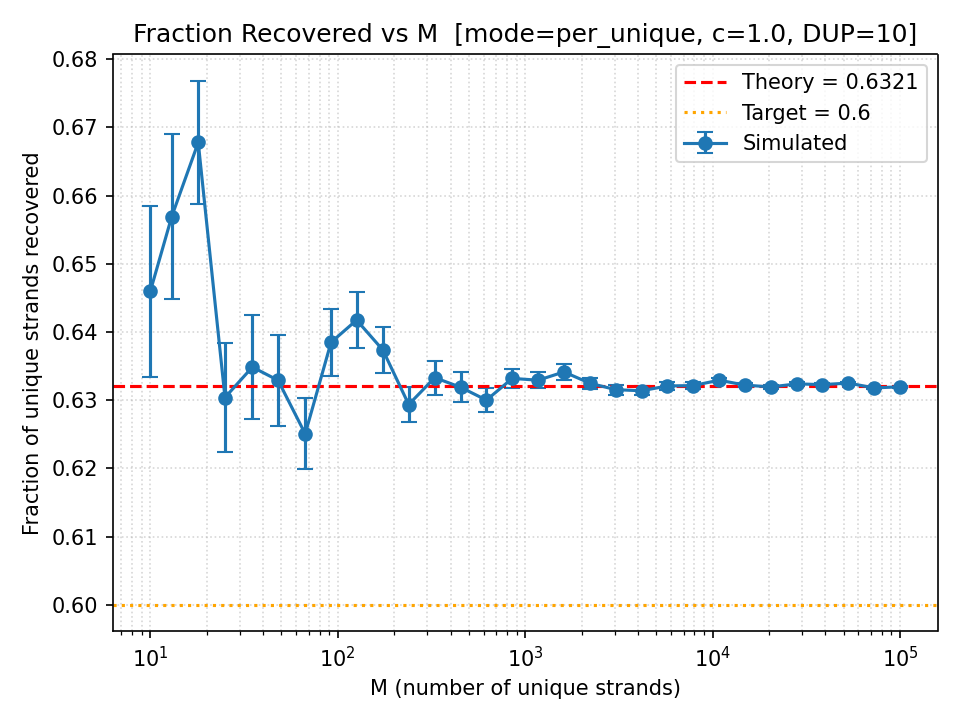
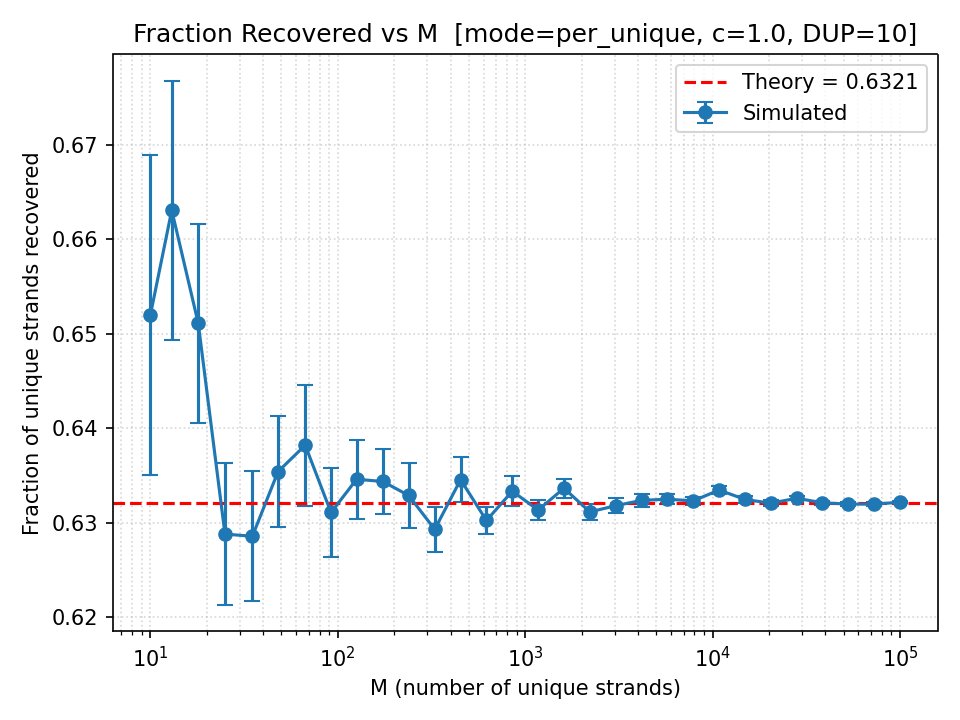
fized graphs

diff --git a/src/dna_storage_sim.py b/src/dna_storage_sim.py
@@ -204,9 +204,6 @@ def plot_results(csv_rows: list, limit: float, beta: float, mode: str, c: float,
     fig, ax = plt.subplots()
     ax.errorbar(Ms, mean_Q, yerr=se_Q, fmt="o-", capsize=4, label="Simulated")
     ax.axhline(limit, color="red", linestyle="--", label=f"Theory = {limit:.4f}")
-    if target_recovery is not None:
-        ax.axhline(target_recovery, color="orange", linestyle=":",
-                   label=f"Target = {target_recovery}")
     ax.set_xscale("log")
     ax.set_xlabel("M (number of unique strands)")
     ax.set_ylabel("Fraction of unique strands recovered")
@@ -220,9 +217,9 @@ def plot_results(csv_rows: list, limit: float, beta: float, mode: str, c: float,
 
     # --- Plot 3: Storage rate (per physical strand) vs M ---
     fig, ax = plt.subplots()
-    ax.plot(Ms, mean_Rp, "^--", color="tab:orange", label="Rs_physical (per physical)")
+    ax.plot(Ms, mean_Rp, "o-", color="tab:blue", label="Rs_physical (per physical)")
     theory_Rp = [limit * (1 - 1 / beta) / DUP] * len(Ms)
-    ax.plot(Ms, theory_Rp, "r:", label=f"Theory Rs_physical = {theory_Rp[0]:.4f}")
+    ax.plot(Ms, theory_Rp, "--", color="red", label=f"Theory Rs_physical = {theory_Rp[0]:.4f}")
     ax.set_xscale("log")
     ax.set_xlabel("M (number of unique strands)")
     ax.set_ylabel("Storage rate (bits per nucleotide synthesized)")
